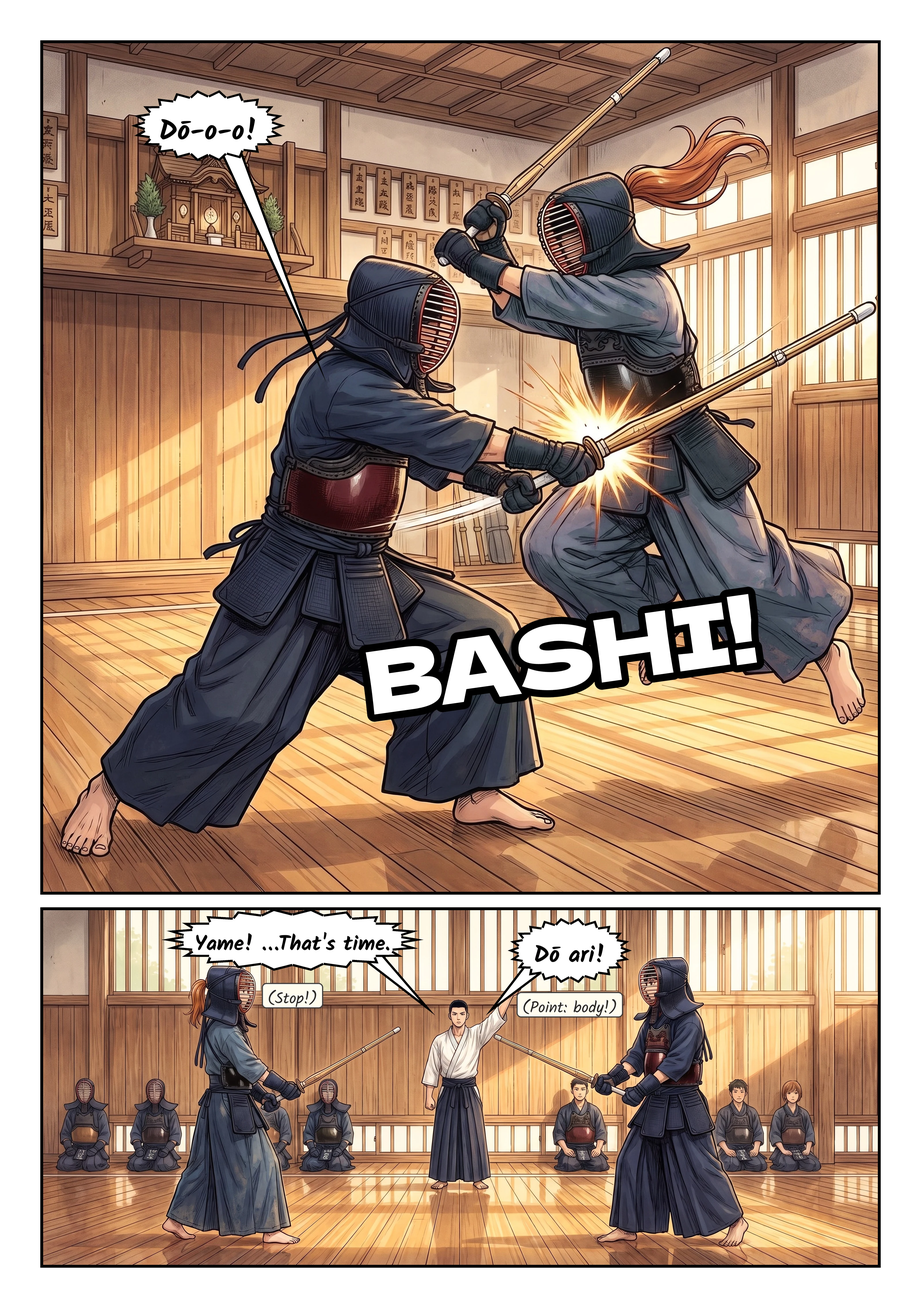
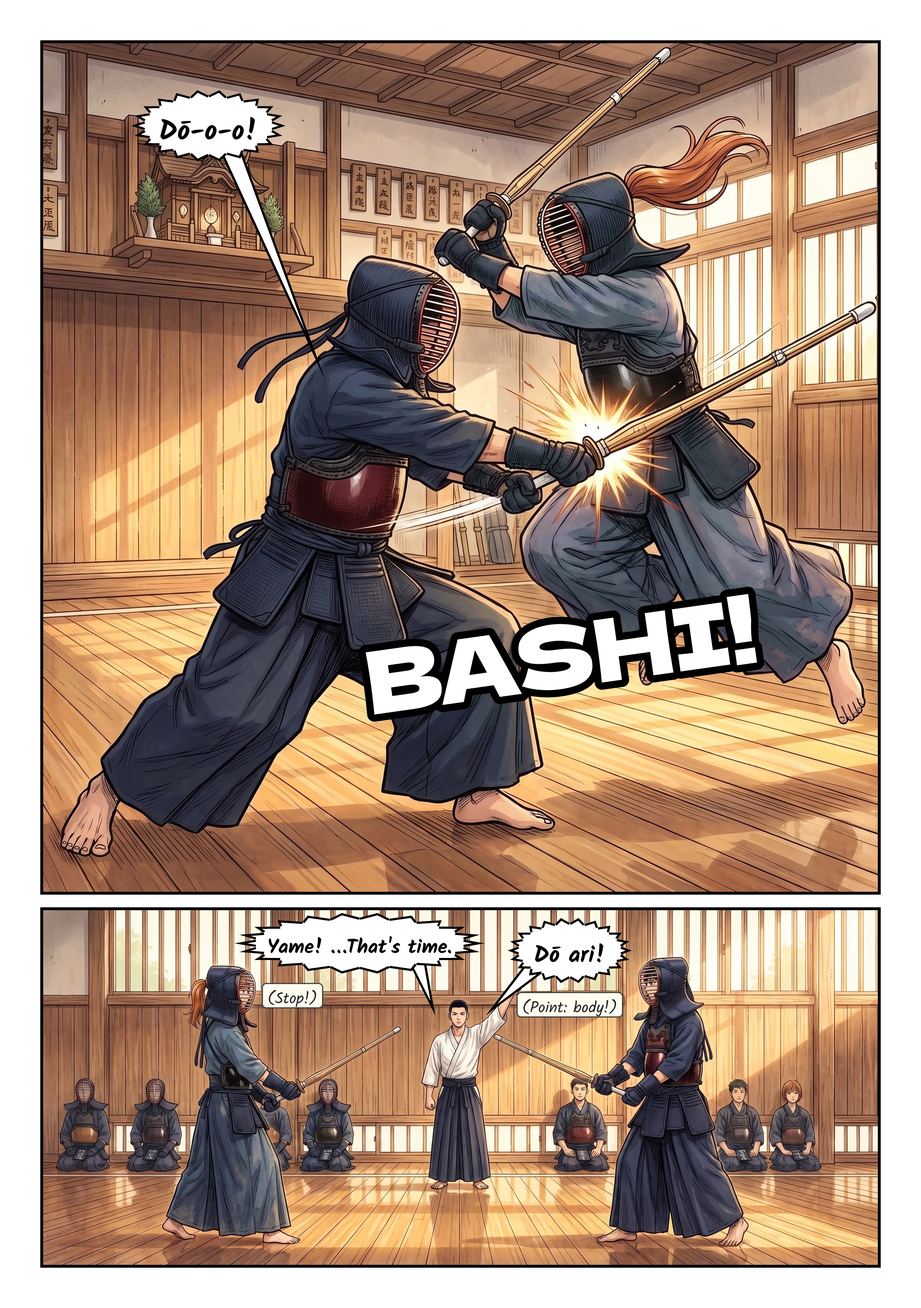
Ch2 fix round 2: p3-2 balloon clear of border and men, insert page-1 wait times out at 5 s, same-spot re-show fades instead of blinking; qa_play uses /dev/shm
Claude-Session: https://claude.ai/code/session_01RwxJ99cbnypmrRJW8WLjFt

Changed region(s): [[0.1875, 0.6875, 0.5312, 0.7812]]

diff --git a/v2/index.html b/v2/index.html
@@ -596,7 +596,7 @@ function showSpr(who, spr, pos){
   pos = pos || (prev&&prev.pos) || 'c';
   state.spr[who]={spr,pos};
   if(prev && el.classList.contains('on')) el.style.left=POSX[pos]+'%';   // on stage: a move slides
-  else { el.style.transition='none'; el.style.left=POSX[pos]+'%'; void el.offsetWidth; el.style.transition=''; }   // entering: appear in place (build review Oct 25)
+  else if(el.style.left!==POSX[pos]+'%'){ el.style.transition='none'; el.style.left=POSX[pos]+'%'; void el.offsetWidth; el.style.transition=''; }   // entering somewhere new: appear in place (build review Oct 25); same spot: the fade simply reverses
   lastSpr[who]=spr;
   const url=`img/ch/${spr}.webp`;
   if(!el.src.endsWith(url)){ const pre=new Image(); pre.onload=()=>{ el.src=url; el.dataset.spr=spr; sizeSpr(el, who); el.classList.add('on'); }; pre.src=url; }
@@ -720,7 +720,9 @@ function insertStart(c){
       insS={c, d, steps, pages, k:0, cur:-1, seen:{}, vtok:0, timer:null};
       insRender(false); requestAnimationFrame(()=>insEl.classList.add('on'));
       insStep(); };
-    const im0=pages[0].querySelector('img'); (im0.decode?im0.decode():Promise.resolve()).then(go,go);
+    let went=false; const go1=()=>{ if(went) return; went=true; clearTimeout(tmo); go(); };
+    const tmo=setTimeout(go1, 5000);   // never strand the player if page 1 stalls: open anyway (a dark page that can still be tapped through)
+    const im0=pages[0].querySelector('img'); (im0.decode?im0.decode():Promise.resolve()).then(go1,go1);
   }).catch(e=>{ if(tok!==insertStart.tok) return; note('insert',e); c.panels.forEach(p=>p.lines.forEach(insLog)); insOff(true); curLine=null; run(); });
 }
 insertStart.tok=0;

diff --git a/production/pipeline/vn/qa_play.py b/production/pipeline/vn/qa_play.py
@@ -16,7 +16,7 @@ report = {"errors": [], "bad_requests": [], "voice_missing": [], "shots": [], "m
 seen = []
 where = {"at": "start"}   # the last line or insert step reached, so a failed request says where it happened
 with sync_playwright() as p:
-    b = p.chromium.launch(args=["--autoplay-policy=no-user-gesture-required"])
+    b = p.chromium.launch(args=["--autoplay-policy=no-user-gesture-required"], ignore_default_args=["--disable-dev-shm-usage"])   # shared memory in /dev/shm, not the (small) disk
     ctx = b.new_context(viewport={"width": W, "height": H}, device_scale_factor=2, has_touch=True)
     pg = ctx.new_page()
     pg.on("pageerror", lambda e: report["errors"].append(str(e)))

diff --git a/production/pilot-v2/reviews/ch2/build-review.md b/production/pilot-v2/reviews/ch2/build-review.md
@@ -35,3 +35,5 @@ Verified with a scripted run at iPad size under 8 Mbps throttling (`scratchpad/c
 ## Round 2: the fix round (e713f9a)
 - **Regression run** against the approved Ch1 (`qa_play.py --every` both builds, `snapshot_diff.py`): all 262 Ch1 frames compared; 13 differ, all by sub-pixel sprite position after a re-entry (c1_0054–0056 and c1_0186–0195: 0.35–0.45 CSS px, from setting `left` without the transition); nothing else changed. The new run's screenshot capture failed once at c2_0232 (a Chromium capture error after ~470 shots); the tail from c2_0229 to the end card was re-run separately: 65 lines, no errors, no failed requests.
 - **Scoped independent check:** see below.
+- **Scoped independent check (fresh agent) of e713f9a:** fixes 1–4 PASS. The catch: no bare-room frame in any run (localhost; cold cache at 4/8/20 Mbps; normal reading at 8 Mbps), the preload serves the video from cache (shows 0.27 s after the tap at 8 Mbps), Skip and save/load fine; double taps at +100–700 ms ignored, a tap at +1.0 s finishes it; never stuck when the video is blocked, never answers, is truncated or the network drops. Inserts: never shown before page 1, 46 taps during a 12.5 s load ignored safely, Skip logs all 12 lines. Sprites: all 13 re-entries hold one x (the pre-fix build slid in 7 of 13 when played through, which production's own check missed by starting at the line before); on-stage moves still slide; expression swaps unchanged. **Fix 5 FAIL:** the balloon cleared the border but its lower notch rested on her men. Backlog: no timeout on the insert's page-1 wait (stuck forever if the request never answers); taps ignored before a cold-cache catch video appears (1.3–4.5 s); a blink on a fast same-spot re-show (c2_0020 → c2_0022 → c2_0023). Test-environment note: the sandbox disk was full, and Playwright's `--disable-dev-shm-usage` put Chromium's shared memory there (the likely cause of the capture failure at c2_0232).
+- **Production response:** the "Yame!" balloon moved right (x 0.38, 34 px, y 0.10): about 20 px (2×) below the border and 55 px above her men, right of her helmet. The insert's page-1 wait now opens anyway after 5 s (checked: a page-1 request that never answers opens at 5.3 s and taps through to the next scene). A same-spot re-show keeps the transition, so the fade reverses instead of blinking. `qa_play.py` launches Chromium with shared memory in /dev/shm, and the scratch disk was cleared. The cold-cache tap delay before the catch video stays on the backlog (normal play preloads it).
